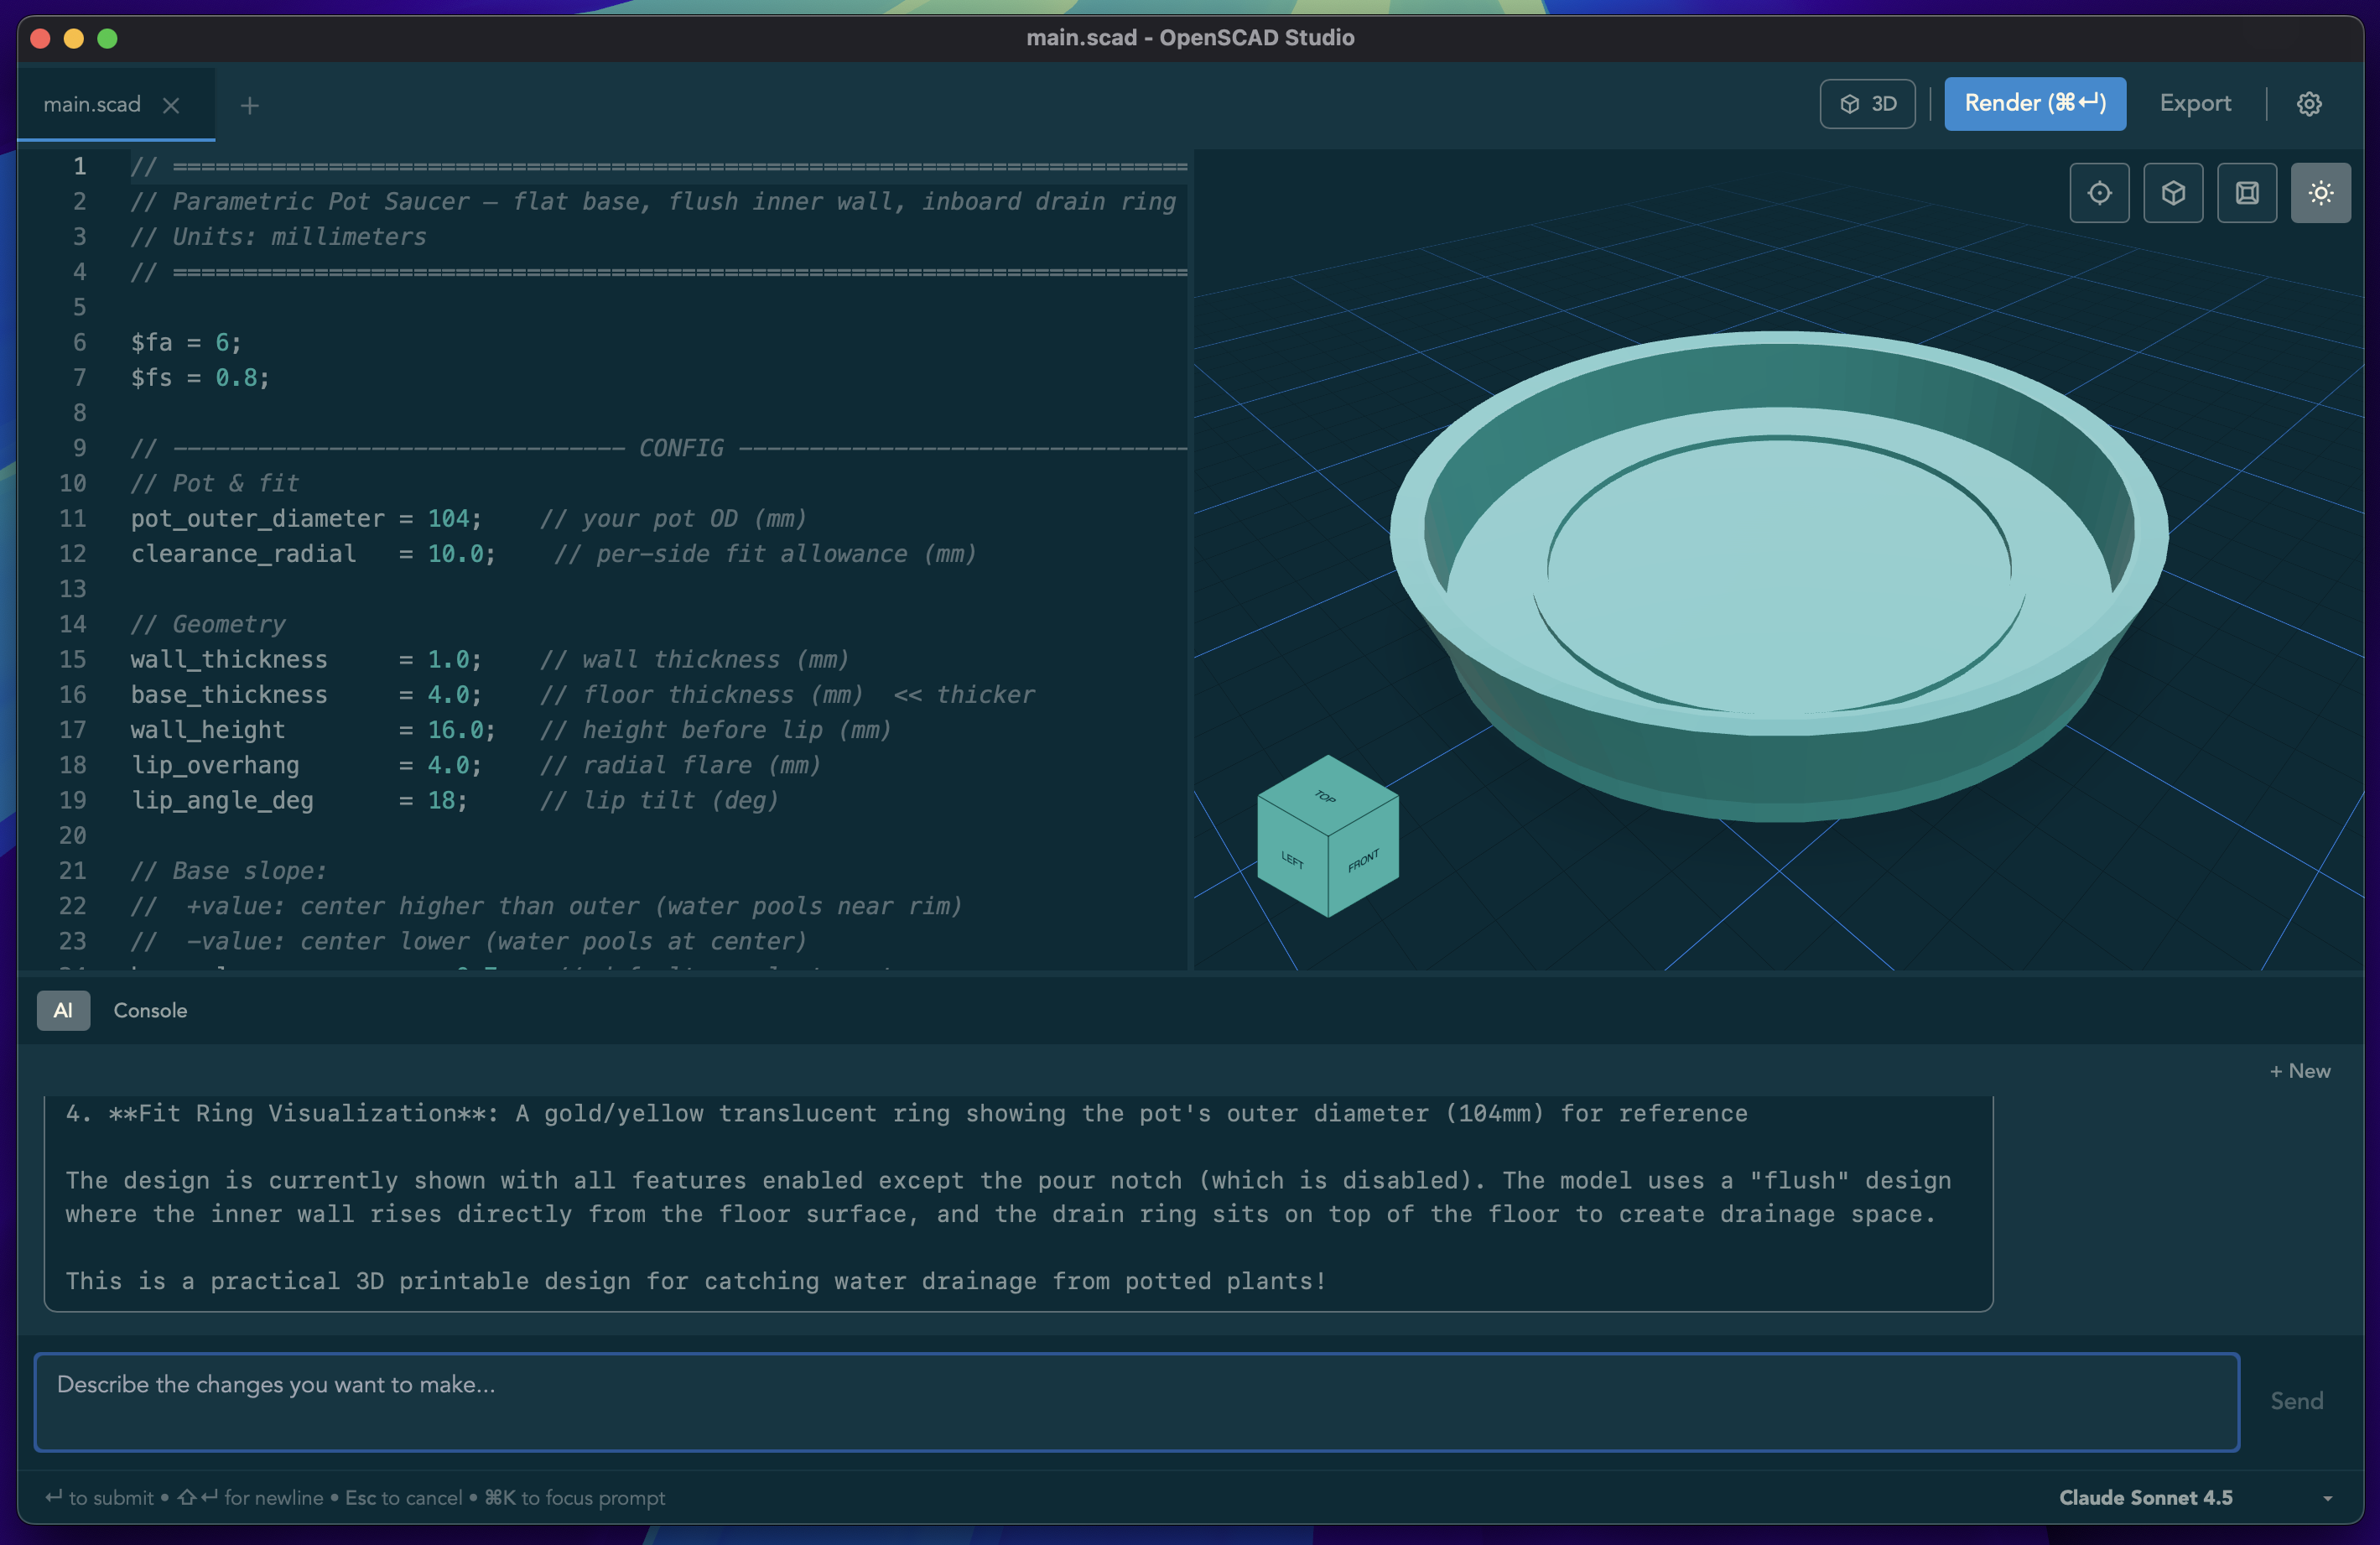
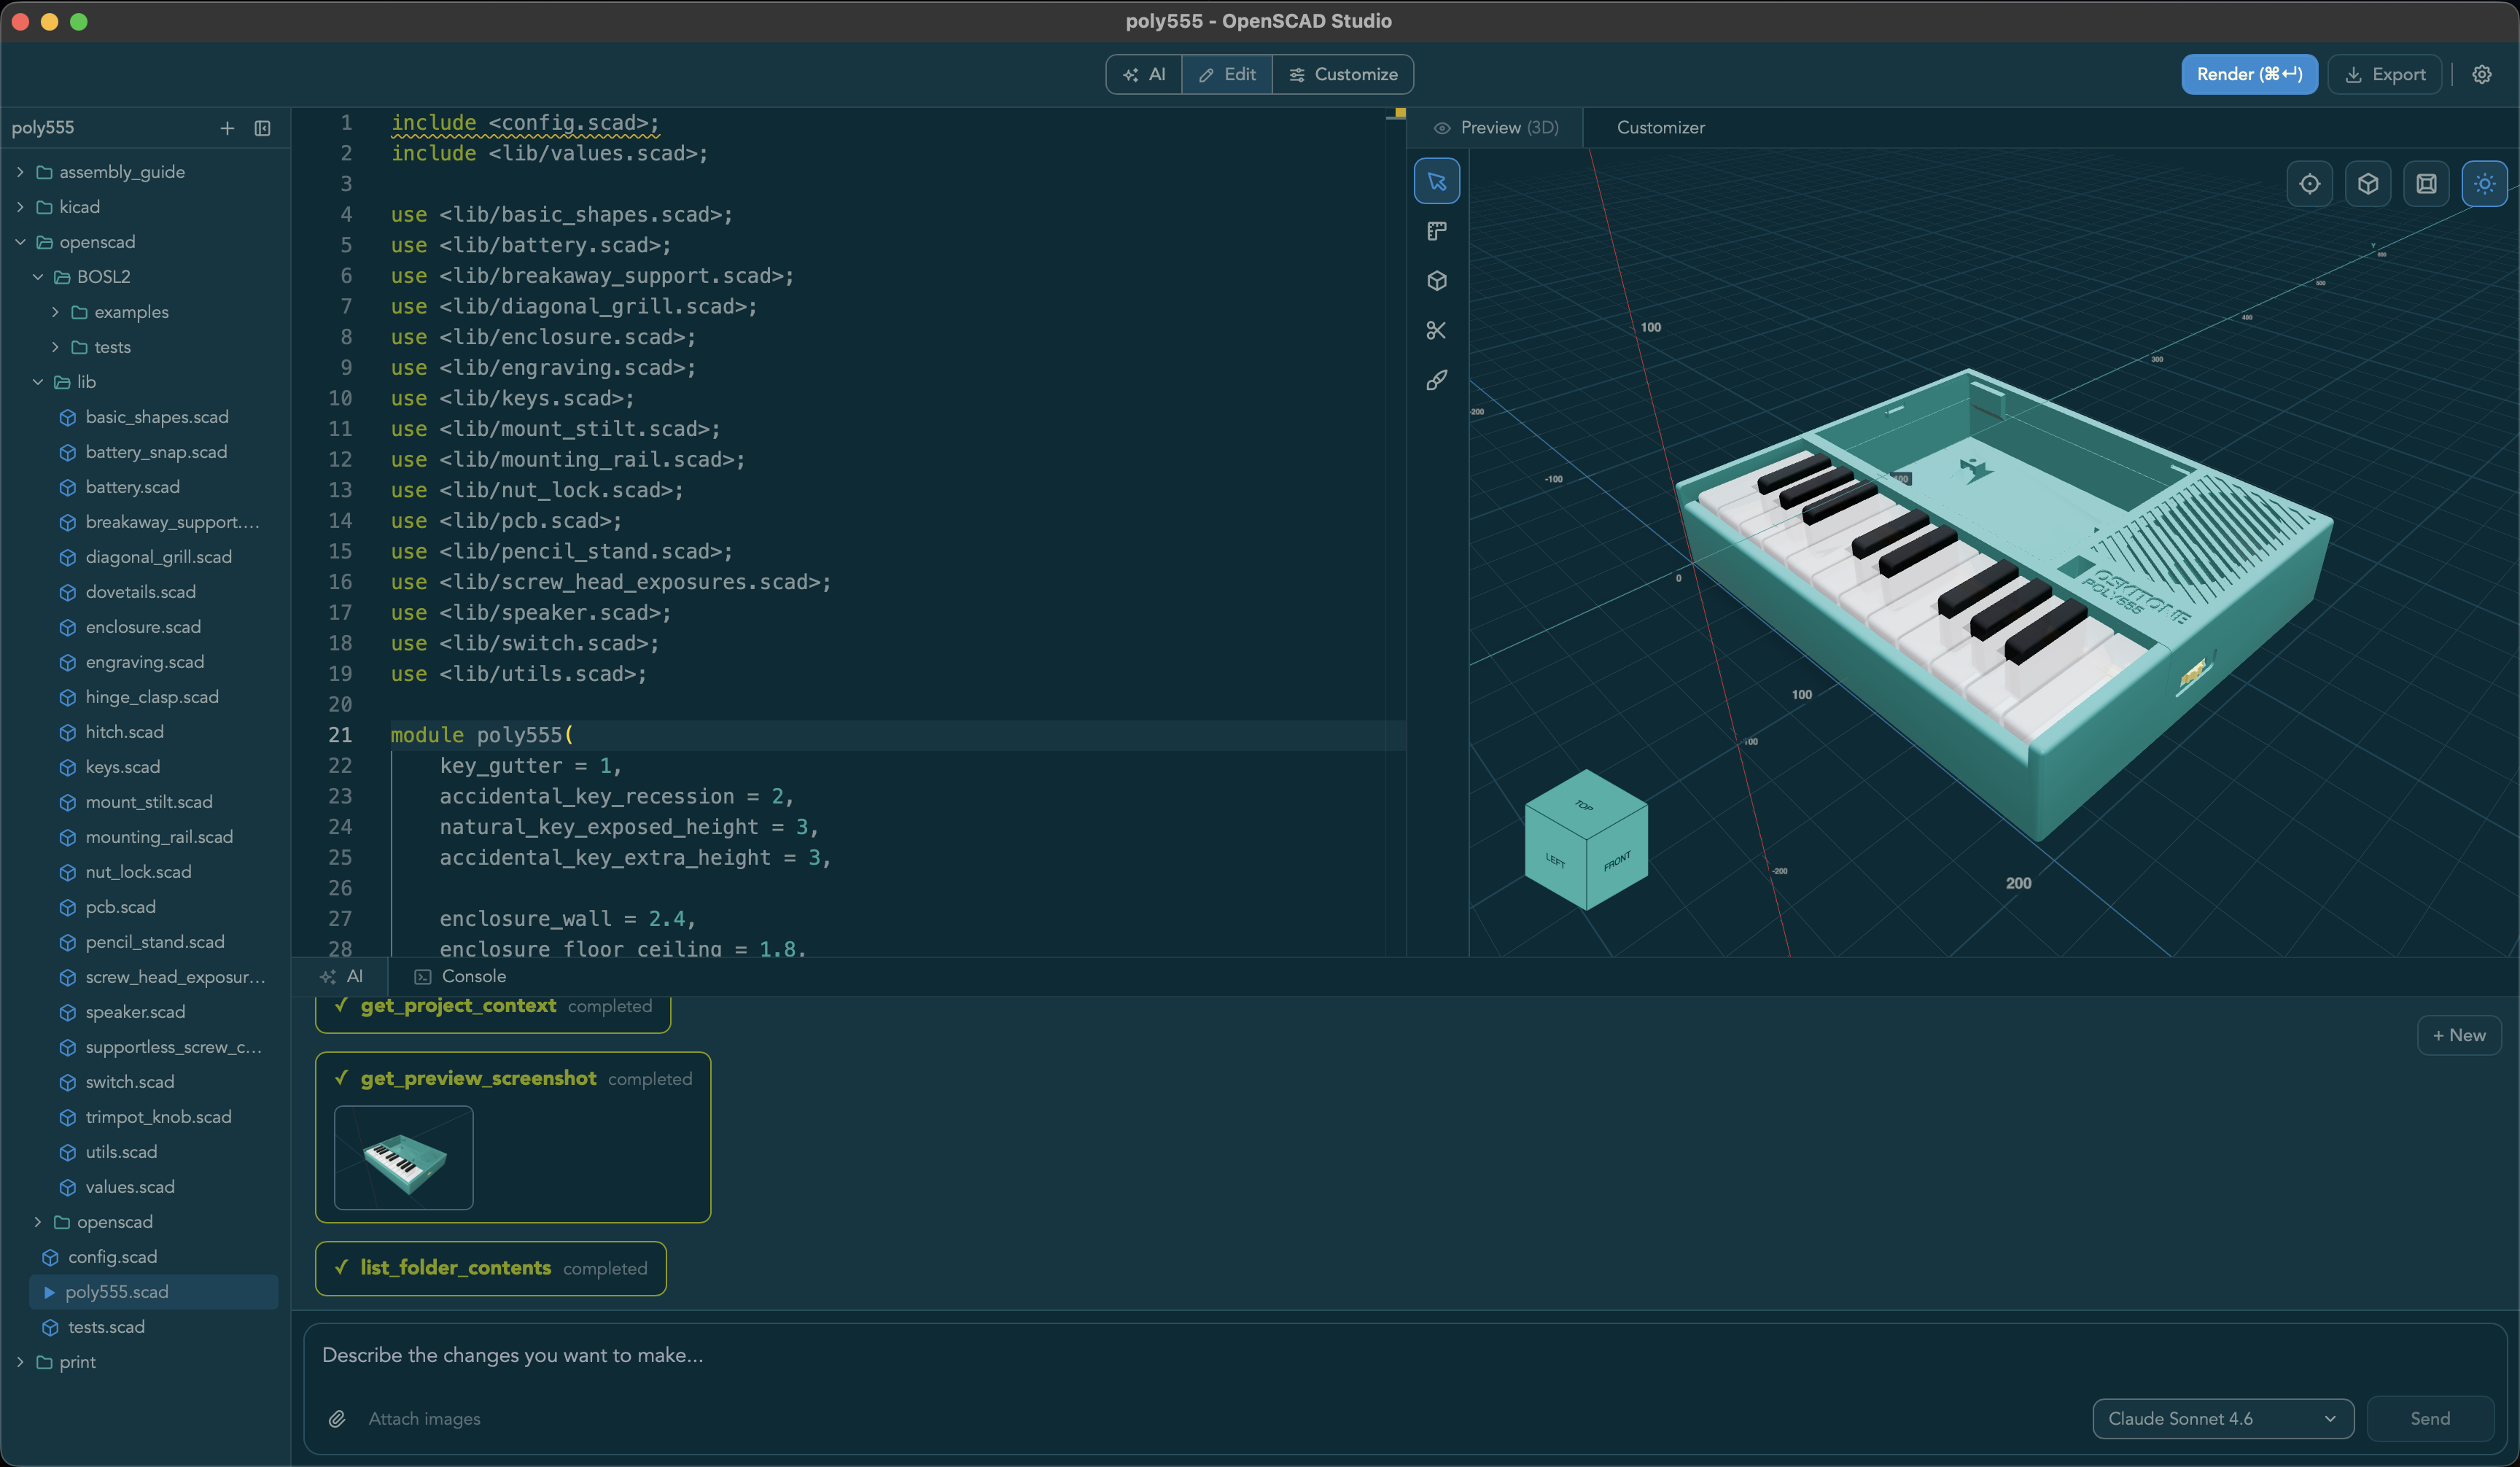
docs: refresh README with product-focused motivation and features
Rewrites the Motivation section as a concise product description,
restructures Features into grouped sections (Editor, Preview, AI
Copilot, Platform), and calls out MCP/Claude Code desktop support.
Also updates the example screenshot.

diff --git a/README.md b/README.md
@@ -5,7 +5,7 @@
 <h1 align="center">OpenSCAD Studio</h1>
 
 <p align="center">
-  <strong>A modern OpenSCAD editor with live preview and AI copilot for the web and macOS desktop</strong>
+  <strong>From idea to 3D printed part in seconds</strong>
 </p>
 
 <p align="center">
@@ -26,24 +26,32 @@
   <img src="images/example.png" alt="OpenSCAD Studio Screenshot" width="100%">
 </p>
 
-## ✨ Motivation
+## 🔩 What It Is
 
-As a software engineer and maker hobbyist, I love OpenSCAD. It allows for precision and maps to my mental model of building things. However, some operations (like rounding with `minkowski`) are not very intuitive. At work, I often use Cursor and Claude Code for writing code, and found myself plugging my OpenSCAD code into ChatGPT in order to either (1) scaffold out a starting point or (2) fix a confusing issue in my code. I also became frustrated by certain limitations of the OpenSCAD editor, like not being able to easily indent code with the editor commands I'm used to. So I built OpenSCAD Studio, which aims to be something like a Cursor for the language.
+OpenSCAD Studio is a professional editor for OpenSCAD — the programmable solid 3D and 2D CAD modeler. It replaces the stock OpenSCAD editor with a modern development environment purpose-built for makers: live preview, real-time diagnostics, an AI copilot, and a full multi-file project workflow.
 
-## Features
+## ✨ Features
 
-- 🌐 **Web app** - Use directly in your browser at [openscad-studio.pages.dev](https://openscad-studio.pages.dev) — no install needed
-- 🤖 **AI copilot** - Chat with Claude/GPT to generate and fix code (bring your own API key)
-- 🎨 **Modern editor** - OpenSCAD syntax highlighting, multi-tab editing, formatter support, and vim mode
-- 📐 **2D mode** - Dedicated SVG viewer for laser cutting and engraving
-- 🖼️ **Live 3D preview** - Interactive mesh viewer with orbit controls, section planes, measurements, and content-hash caching
-- 🔍 **Real-time diagnostics** - Inline error markers with line/column precision
-- ⚙️ **Customizer panel** - Interactive controls for OpenSCAD parameters with auto-rendering
-- 🔗 **Share links** - Publish browser-based share links with thumbnail support for remixable examples
-- 📁 **Multi-file projects** - File tree, multiple tabs, include/use resolution, and auto-created project directories (desktop)
-- 🌈 **Theme library** - 27 built-in themes including Solarized, Dracula, GitHub, Nord, Tokyo Night, Catppuccin, and more
+### Editor
+- **Multi-file projects** — File tree, multiple tabs, and `include`/`use` path resolution against the project root (desktop)
+- **Real-time diagnostics** — Inline error and warning markers with line/column precision parsed directly from the OpenSCAD compiler
+- **Monaco-based editing** — OpenSCAD syntax highlighting, multi-tab support, formatter, and vim mode with configurable keybindings
 
-**Limitations:** Special operators (!, #, %, \*) preview not yet implemented
+### Preview
+- **Live 3D preview** — Interactive mesh viewer with orbit controls, orthographic mode, wireframe, shadows, and section planes
+- **2D mode** — Dedicated SVG viewer for laser cutting and engraving workflows
+- **Measurement tools** — In-canvas 2D and 3D measurement overlays
+- **Customizer panel** — Interactive parameter controls auto-generated from your OpenSCAD file, with live re-rendering on change
+
+### AI Copilot
+- **In-app chat** — Stream responses from Claude or GPT to generate, explain, and fix OpenSCAD code (bring your own API key)
+- **MCP support (desktop)** — Exposes a localhost MCP server so external agents like [Claude Code](https://claude.ai/code) can render models, read diagnostics, capture screenshots, and edit files in your active workspace
+
+### Platform
+- **Runs everywhere** — Web app at [openscad-studio.pages.dev](https://openscad-studio.pages.dev) and macOS desktop app 
+- **Share links** — Publish browser-based share links with thumbnail previews for remixable examples
+
+**Known limitation:** Special operators (`!`, `#`, `%`, `*`) are not yet reflected in the preview.
 
 ## 📦 Installation
 